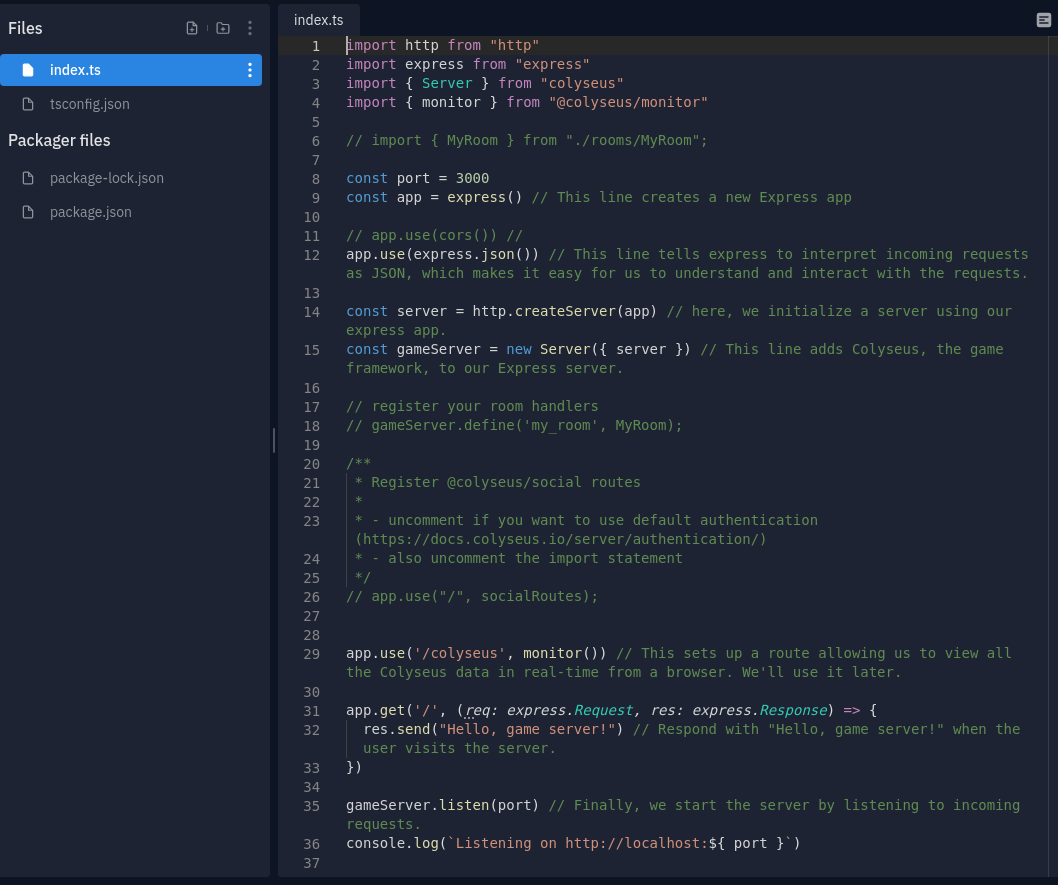
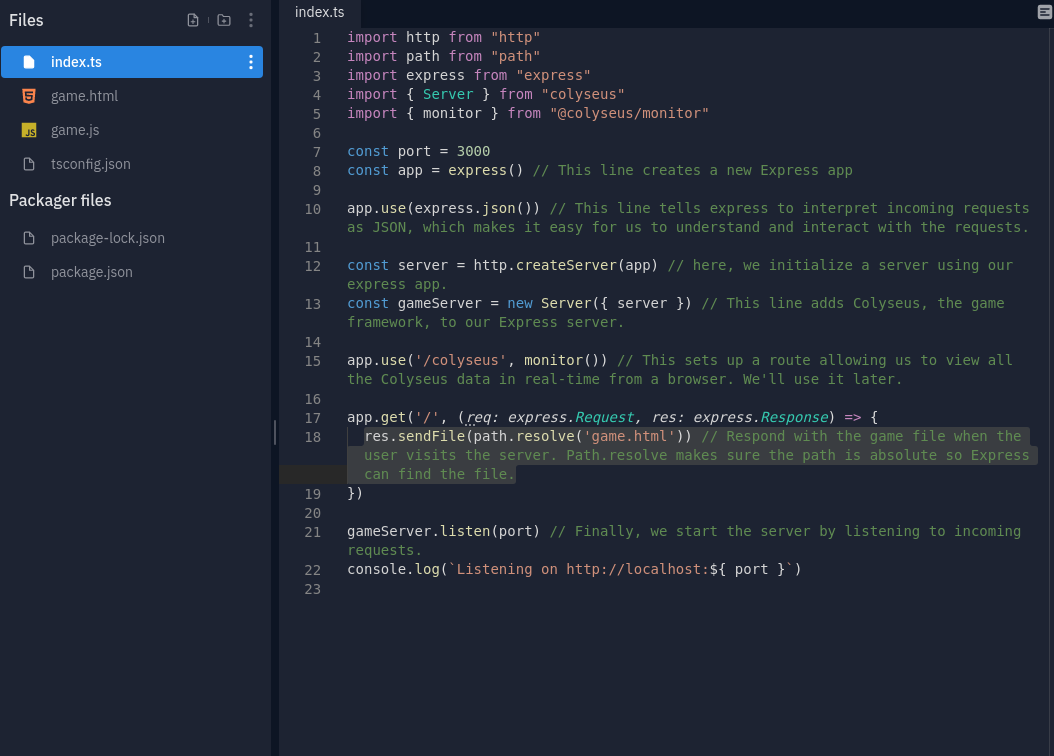
Update Blog “2020-11-12-building-a-multiplayer-js-game-with-colyseus-js-in-20-minutes”

diff --git a/_posts/2020-11-12-building-a-multiplayer-js-game-with-colyseus-js-in-20-minutes.md b/_posts/2020-11-12-building-a-multiplayer-js-game-with-colyseus-js-in-20-minutes.md
@@ -23,8 +23,6 @@ In this tutorial, I will explain the basics of creating a multiplayer browser ga
 
 ## How it works
 
-
-
 We will be using TypeScript for the server, as it is best for Colyseus. If you are not familiar with TypeScript, it is very similar to Node.js but requires you to specify types for variables and also lets you use some advanced/modern features that are unavailable in basic Node.js. Usually, you should be able to just write standard JS code and get away with it in TypeScript.
 
 ## Setting up the server
@@ -79,10 +77,11 @@ Now, we need to install the Colyseus server framework and other packages our gam
 
 Now, let's start writing code!!!!
 
-Open `index.ts` and add these lines to the top to import the packages we just added:
+Open `index.ts` and add these lines to the top to import the packages we just added (along with some basic packages built into TypeScript/Node):
 
 ```javascript
 import http from "http"
+import path from "path"
 import express from "express"
 import { Server } from "colyseus"
 import { monitor } from "@colyseus/monitor"
@@ -104,17 +103,16 @@ const gameServer = new Server({ server }) // This line adds Colyseus, the game f
 app.use('/colyseus', monitor()) // This sets up a route allowing us to view all the Colyseus data in real-time from a browser. We'll use it later.
 
 app.get('/', (req: express.Request, res: express.Response) => {
-  res.sendFile('game.html') // Respond with the game file when the user visits the server. We'll create this file in just a moment.
+  res.sendFile(path.resolve('game.html')) // Respond with the game file when the user visits the server. Path.resolve makes sure the path is absolute so Express can find the file.
 })
 
 gameServer.listen(port) // Finally, we start the server by listening to incoming requests.
 console.log(`Listening on http://localhost:${ port }`)
-
 ```
 
-Finally, we need to create the HTML and JS files that will run on the user's computer when they visit the game. Create two new files, `game.html` and `game.js`. You can leave `game.js` empty for now but let's add some basic HTML with a title and page header to `game.html`:
+Finally, we need to create the HTML and JS files that will run on the user's computer when they visit the game. Create two new files, `game.html` and `game.js`. You can leave `game.js` empty for now but let's add some basic HTML with a title, page header, and script tag to import `game.js` to `game.html`:
 
-```
+```html
 <!DOCTYPE html>
 <html>
   <head>
@@ -123,6 +121,7 @@ Finally, we need to create the HTML and JS files that will run on the user's com
   <body>
     <h1>My Amazing Game</h1>
     
+    <script src='game.js'></script>
   </body>
 </html>
 ```
@@ -133,4 +132,8 @@ Your project should now look like this:
 
 (it's ok if you don't see `package-lock.json`)
 
-Let's make sure it's working so far - press Run and hold your breath! After several seconds, if you see a new screen open that says "
+Let's make sure it's working so far - press Run and hold your breath! After several seconds, if you see a new screen open that says "My Amazing Game"
+
+![The empty game page](/img/uploads/hcmpg_hello.png "The empty game page")
+
+Yeahhh!!! It works!!! If it doesn't, go back and make sure all your files, including game.html, index.ts, tsconfig.json and package.json match mine.
